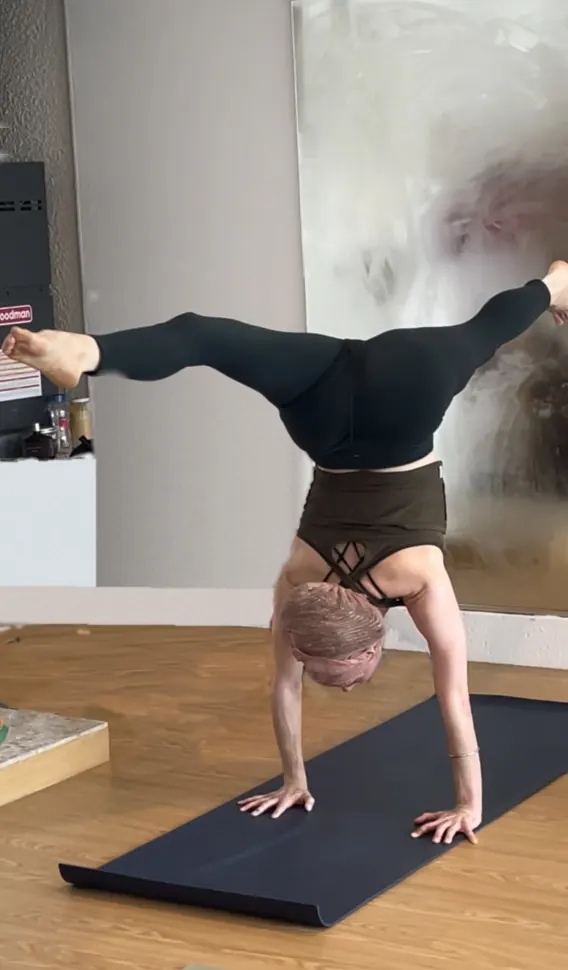
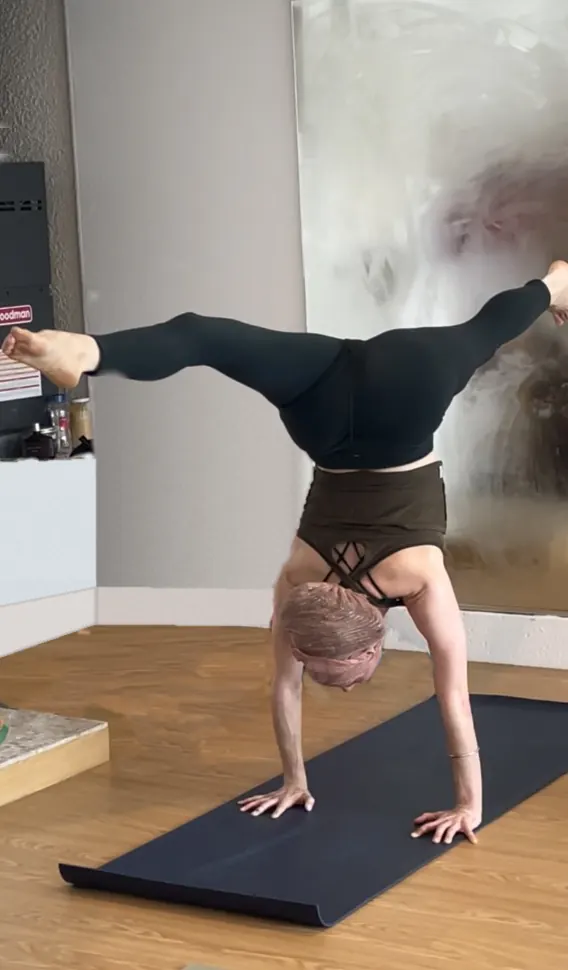
Turn the baseboard around the wall corner in handstand photo

Changed region(s): [[0.0, 0.5876, 0.1496, 0.6804]]

diff --git a/scripts/retouch_handstand.py b/scripts/retouch_handstand.py
@@ -79,6 +79,23 @@ keep = np.asarray(keep).astype(float)[..., None] / 255
 apply(floor, fm * seam_fade * (1 - keep))
 apply(out_a * 0.8, poly_mask([(0, 623), (262, 626), (262, 629), (0, 626)], 0.8) * 0.6)
 
+# 4b. The short white wall at the left comes toward the camera, so its
+# baseboard turns the corner at x=95 and angles down to the left.
+CX = 95
+def side(y_at_corner, y_at_edge):
+    return [(CX, y_at_corner), (0, y_at_edge)]
+top_c, top_e = 587, 606                               # baseboard top at corner / left edge
+bot_c, bot_e = 624, 657                               # floor line at corner / left edge
+white2 = np.zeros_like(a); white2[:] = np.array([216, 221, 226]); white2 += noise(2.5, 0.8)
+apply(white2, poly_mask([(0, 580), (CX, 580), (CX, top_c), (0, top_e)], 0.7))
+side_base = np.zeros_like(a); side_base[:] = np.array([221, 216, 213]); side_base += noise(3, 0.8)
+apply(side_base, poly_mask([(0, top_e), (CX, top_c), (CX, bot_c), (0, bot_e)], 0.7))
+# thin shadow along the top of the side baseboard and at the floor line
+apply(out_a * 0.88, poly_mask([(0, top_e - 1), (CX, top_c - 1), (CX, top_c + 1), (0, top_e + 1)], 0.6) * 0.8)
+apply(out_a * 0.8, poly_mask([(0, bot_e - 2), (CX, bot_c - 2), (CX, bot_c + 1), (0, bot_e + 1)], 0.8) * 0.6)
+# the inside corner itself: a soft vertical shadow up the baseboard
+apply(out_a * 0.85, poly_mask([(CX - 1, top_c), (CX + 2, top_c), (CX + 2, bot_c), (CX - 1, bot_c)], 0.8) * 0.7)
+
 # 5. Two stray grey dots left of the heater.
 for (cx, cy, r) in [(3, 140, 9), (93, 296, 6)]:
     y0, y1, x0, x1 = max(cy - r, 0), cy + r, max(cx - r, 0), cx + r
